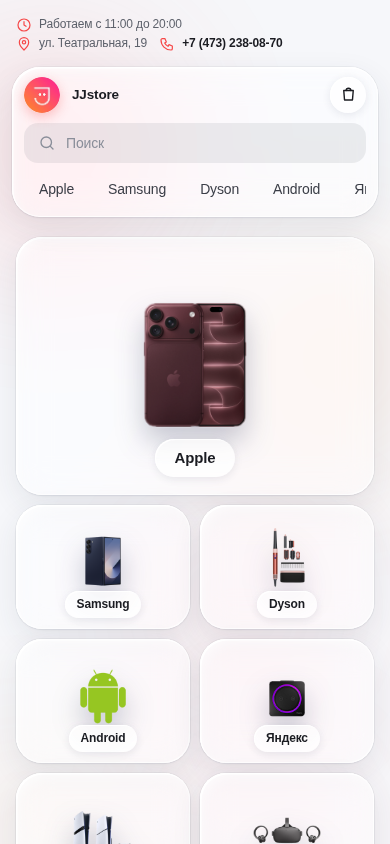
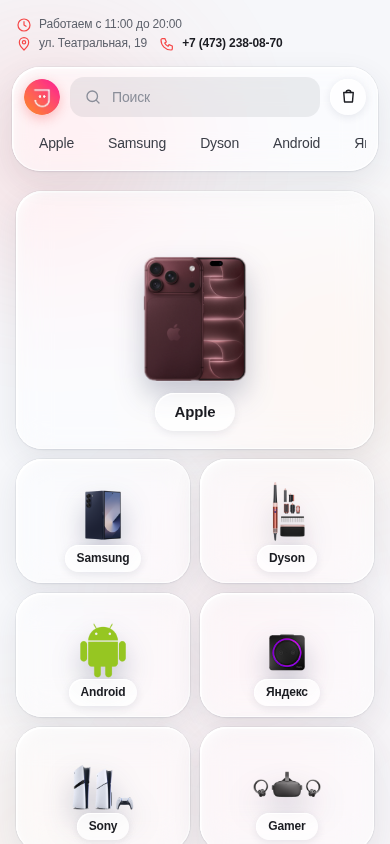
Mobile: vertical product grid and compact header
Claude-Session: https://claude.ai/code/session_0163ZjdM2uxMpsZRiagcJtBK

diff --git a/assets/style.css b/assets/style.css
@@ -205,3 +205,20 @@ svg{width:1em;height:1em;fill:none;stroke:currentColor;stroke-width:1.8;stroke-l
 .tile.feat span{font-size:15px;padding:8px 20px;margin-bottom:18px}
 @media(max-width:980px){.wall{grid-template-columns:repeat(4,1fr);grid-auto-rows:124px;gap:12px}}
 @media(max-width:760px){.wall{grid-template-columns:repeat(2,1fr);grid-auto-rows:124px;gap:10px}.tile.feat{grid-column:span 2;grid-row:span 2}}
+
+/* mobile: vertical product grid (no horizontal scroller — backdrop-filter cards can fail to paint inside it on iOS Safari) + compact header */
+@media(max-width:760px){
+  .products{margin:14px 0 60px}
+  .track{display:grid;grid-template-columns:1fr 1fr;gap:12px;overflow:visible;scroll-snap-type:none;padding:0;margin:0}
+  .card{flex:none;min-width:0;padding:12px 10px 16px}
+  .card .img{height:130px}
+  .card h4{font-size:12.5px;min-height:34px}
+  .price{font-size:16px;margin:6px 0 10px}
+  .buy{padding:9px 16px;font-size:12px}
+  .arrow{display:none}
+  .head-row{flex-wrap:nowrap;gap:10px}
+  .search{order:0;flex:1;min-width:0;max-width:none}
+  .logo span{display:none}
+  .icons{margin-left:0}
+  .sec-title{margin-top:36px}
+}
